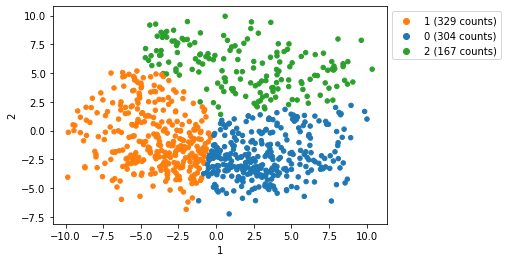
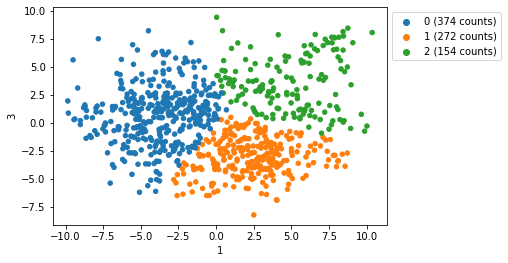
readme update

diff --git a/pcpm/recipes/clusters.py b/pcpm/recipes/clusters.py
@@ -1,5 +1,6 @@
 
 
+from collections import Counter
 from typing import Sequence
 import pandas
 from ..transform import transform_datapoints
@@ -40,8 +41,28 @@ def labels_to_names(embedding: pandas.DataFrame, labels: Sequence[str]) -> Seque
     return names_lists
 
 
-def split_pcs_in_clusters(pcs, embedding, labels) -> dict:
-    """Split the point cloud ditcionnary according to the given labels
+def rename_labels_by_count(labels):
+    """Rename the given label arrays, sorting labels by item counts
+
+    Args:
+        labels: array of labels (e.g. the output of clustering)
+
+    Returns:
+        array of labels
+    """
+    counter = Counter(labels)
+    d = {item[0]: i for i, item in enumerate(
+        sorted(counter.items(), key=lambda x: x[1], reverse=True))}
+    new_labels = list(map(lambda x: d[x], labels))
+
+    return new_labels
+
+
+def split_pcs_in_clusters(pcs, embedding, labels, reorder_labels=True) -> dict:
+    """Split the point cloud ditcionnary according to the given labels.
+
+    If reorder_labels is true, the labels are renamed (0 to len(clusters))
+    so that cluster 0 is the biggest, 1 the second biggest and so on.
 
     Args:
         pcs ([type]): [description]
@@ -54,6 +75,9 @@ def split_pcs_in_clusters(pcs, embedding, labels) -> dict:
 
     assert len(labels) == len(
         embedding), "Labels and embedding musth have the same length"
+
+    if (reorder_labels):
+        labels = rename_labels_by_count(labels)
 
     names_lists = labels_to_names(embedding, labels)
     return {str(label): {name: pcs[name] for name in names} for label, names in names_lists.items()}
@@ -77,6 +101,15 @@ def get_names_of_n_largest_clusters(clusters, n):
     sorted_names = [e[0] for e in sorted(
         d.items(), key=lambda item:item[1], reverse=True)]
     return sorted_names[:n]
+
+
+def sort_clusters_by_counts(clusters):
+    """Sort and re-label the cluster by the count of their elements (from largest to smallest)"""
+    out = dict()
+    ordered_names = get_names_of_n_largest_clusters(clusters, len(clusters))
+    for i, name in enumerate(ordered_names):
+        out[str(i)] = clusters[name]
+    return out
 
 
 def get_n_largest_clusters(clusters, n):

diff --git a/pcpm/plot.py b/pcpm/plot.py
@@ -71,22 +71,28 @@ def clustering(data: pandas.DataFrame, labels, cmap='tab10', **kwargs):
     df = pandas.DataFrame(data).copy()
     embedding_dim = len(df.iloc[0])
     cmap = matplotlib.cm.get_cmap(cmap)
-    df['label'] = labels
-    df['color'] = list(map(cmap, labels))
+
+    counter = Counter(labels)
+    d = {item[0]: i for i, item in enumerate(
+        sorted(counter.items(), key=lambda x: x[1], reverse=True))}
+    new_labels = list(map(lambda x: d[x], labels))
+    label_counts = sorted(
+        Counter(new_labels).items(), key=lambda x: x[1], reverse=True)
+
+    df['label'] = new_labels
+    df['color'] = list(map(cmap, new_labels))
 
     if embedding_dim == 1:
-        for label in set(labels):
+        for label in set(new_labels):
             plt.hist(df.loc[df.label == label].iloc[:, 0], **kwargs)
     elif embedding_dim == 2:
         df.plot.scatter(*df.columns[0:2], c=df.loc[:, "color"])
-        counter = Counter(labels)
+        counter = Counter(new_labels)
         # order the labels by their frequency
-        unique_labels = sorted(
-            counter.items(), key=lambda x: x[1], reverse=True)
-        if len(unique_labels) > 10:
+        if len(label_counts) > 10:
             # cut the labels for the legend
-            unique_labels = list(unique_labels)[:9]
-        for l in unique_labels:
+            label_counts = label_counts[:9]
+        for l in label_counts:
             plt.scatter([], [], color=cmap(l[0]),
                         label=f"{l[0]} ({l[1]} counts)")
         plt.legend(bbox_to_anchor=(1, 1), loc="upper left")

diff --git a/README.md b/README.md
@@ -35,27 +35,6 @@ import pcpm
 
 <!-- REMOVED CODE CELL [kw: %autoreload|#HIDE_IN_MARKDOWN]
 ```python
-%%capture
-%gui qt
-
-#HIDE_IN_MARKDOWN
-# run this cell only once, at the beginning.
-an = dtb.anatomist.Anatomist()
-```
--->
-
-
-<!-- REMOVED CODE CELL [kw: %autoreload|#HIDE_IN_MARKDOWN]
-```python
-#HIDE_IN_MARKDOWN
-# run this line only after the Anatomist window appears
-%matplotlib inline
-```
--->
-
-
-<!-- REMOVED CODE CELL [kw: %autoreload|#HIDE_IN_MARKDOWN]
-```python
 #HIDE_IN_MARKDOWN
 
 # the following module requires Brainvisa (https://brainvisa.info/web/) and is only used here for displaying the results
@@ -91,6 +70,27 @@ values = list(pcs.values())
 -->
 
 
+<!-- REMOVED CODE CELL [kw: %autoreload|#HIDE_IN_MARKDOWN]
+```python
+%%capture
+%gui qt
+
+#HIDE_IN_MARKDOWN
+# run this cell only once, at the beginning.
+an = dtb.anatomist.Anatomist()
+```
+-->
+
+
+<!-- REMOVED CODE CELL [kw: %autoreload|#HIDE_IN_MARKDOWN]
+```python
+#HIDE_IN_MARKDOWN
+# run this line only after the Anatomist window appears
+%matplotlib inline
+```
+-->
+
+
 ```python
 # The point clouds need to be stored in a dictionnary
 # This example works uses 1765 point-clouds representing the Central Sulcus
@@ -122,6 +122,7 @@ pcs['L295146'].shape
 <!-- REMOVED CODE CELL [kw: %autoreload|#HIDE_IN_MARKDOWN]
 ```python
 #HIDE_IN_MARKDOWN
+an.clear()
 an(pcs['L295146'])
 plt.imshow(an.snapshot());
 ```
@@ -368,7 +369,7 @@ aligned_pcs, aligned_rot, aligned_transl = pcpm.align_pcs(pcs, central_subject)
 ```
 
     >>> INFO pcpm.transform - using 45 cores out of 48
-    Aligning point-clouds to R192540: 100%|██████████| 800/800 [02:48<00:00,  4.75it/s]
+    Aligning point-clouds to R192540: 100%|██████████| 800/800 [02:48<00:00,  4.76it/s]
 
 
 
@@ -496,14 +497,13 @@ The choice of the clustering method is left to the used. Here we give an example
 # K-MEANS ==========================
 from sklearn.cluster import KMeans
 # select a 2D subspace of the embedding
-sub_embedding = embedding.iloc[:,[0,1]]
+sub_embedding = embedding.loc[:,[1,3]]
 # do the clustering you prefer
 k=3
 kmeans = KMeans(n_clusters=k, random_state=0).fit(sub_embedding.values.reshape(-1, len(sub_embedding.iloc[0])))
 cluster_labels = kmeans.labels_
 cluster_centers = kmeans.cluster_centers_
 # split the aligned point-clouds in clusters
-clusters = pcpm.split_pcs_in_clusters(aligned_pcs, embedding=sub_embedding, labels=cluster_labels)
 pcpm.plot.clustering(sub_embedding, labels=cluster_labels)
 ```
 
@@ -515,10 +515,9 @@ pcpm.plot.clustering(sub_embedding, labels=cluster_labels)
 ```python
 # DBSCAN ==========================
 from sklearn.cluster import DBSCAN
-sub_embedding = embedding.iloc[:,[0,2]]
+sub_embedding = embedding.loc[:,[1,3]]
 dbscan = DBSCAN(eps=0.48, min_samples=3).fit(sub_embedding.values.reshape(-1, len(sub_embedding.iloc[0])))
 cluster_labels = dbscan.labels_
-clusters = pcpm.split_pcs_in_clusters(aligned_pcs, embedding=sub_embedding, labels=cluster_labels)
 pcpm.plot.clustering(sub_embedding, labels=cluster_labels)
 ```
 
@@ -528,7 +527,16 @@ pcpm.plot.clustering(sub_embedding, labels=cluster_labels)
 
 
 ```python
+from collections import Counter
+temp_df = sub_embedding.copy()
+labels = cluster_labels
+```
+
+
+```python
 # Take the n largest clusters
+clusters = pcpm.split_pcs_in_clusters(aligned_pcs, embedding=sub_embedding, labels=cluster_labels)
+
 n = 2
 larges_clusters, other_pcs = pcpm.clusters.get_n_largest_clusters(clusters, n)
 cluster_names = list(larges_clusters.keys())
@@ -538,7 +546,7 @@ cluster_names
 
 
 
-    ['1', '6']
+    ['0', '1']
 
 
 
@@ -565,7 +573,7 @@ av.coord_in_embedding
 
 
 
-    array([-2.96314941,  0.94388296])
+    array([ 2.43868471, -2.64527022])
 
 
 
@@ -573,6 +581,7 @@ av.coord_in_embedding
 <!-- REMOVED CODE CELL [kw: %autoreload|#HIDE_IN_MARKDOWN]
 ```python
 #HIDE_IN_MARKDOWN
+
 # plot the volumes with colorado
 # cld.draw({k:av.vol for k,av in averages.items()}, shift=(0,30,0), th_min=0.5)
 ```
@@ -611,7 +620,7 @@ meshes_in_emmbedding = dtb.mesh_of_averages(averages, in_embedding=True, embeddi
 # SHIFTED 
 # cld.draw(meshes, title="shifted MA", shift=(0,30,0))
 # OVERLAP
-# fig = cld.draw(meshes['6'], color='red')
+# fig = cld.draw(meshes['0'], color='red')
 # cld.draw(meshes['1'], color='lightgreen', fig=fig)
 ```
 -->
@@ -627,5 +636,5 @@ plt.imshow(an.snapshot());
 -->
 
 
-![png](./docs/README_images/Readme_32_0.png)
+![png](./docs/README_images/Readme_33_0.png)
 
